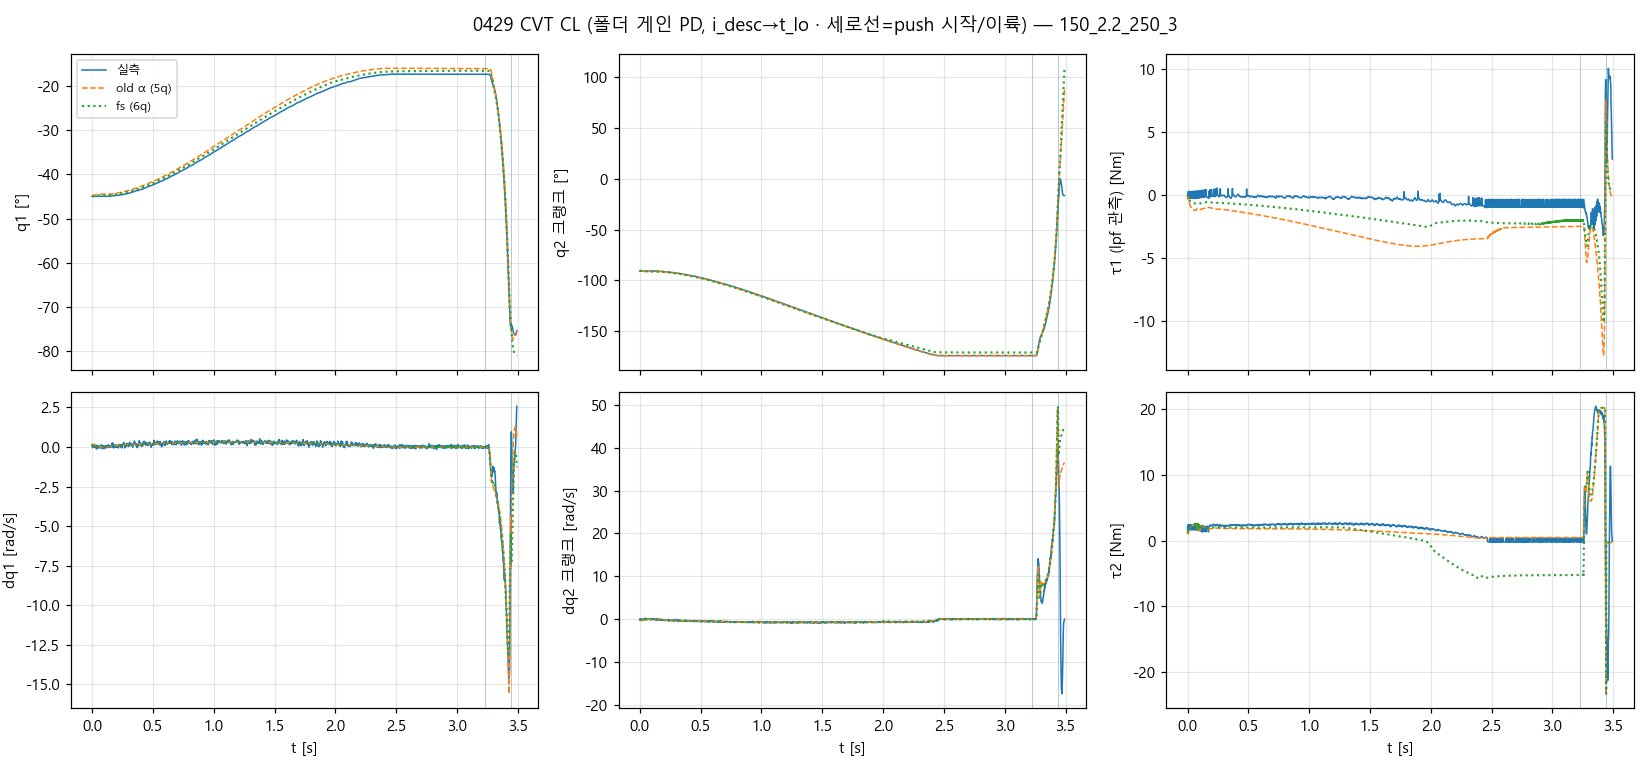
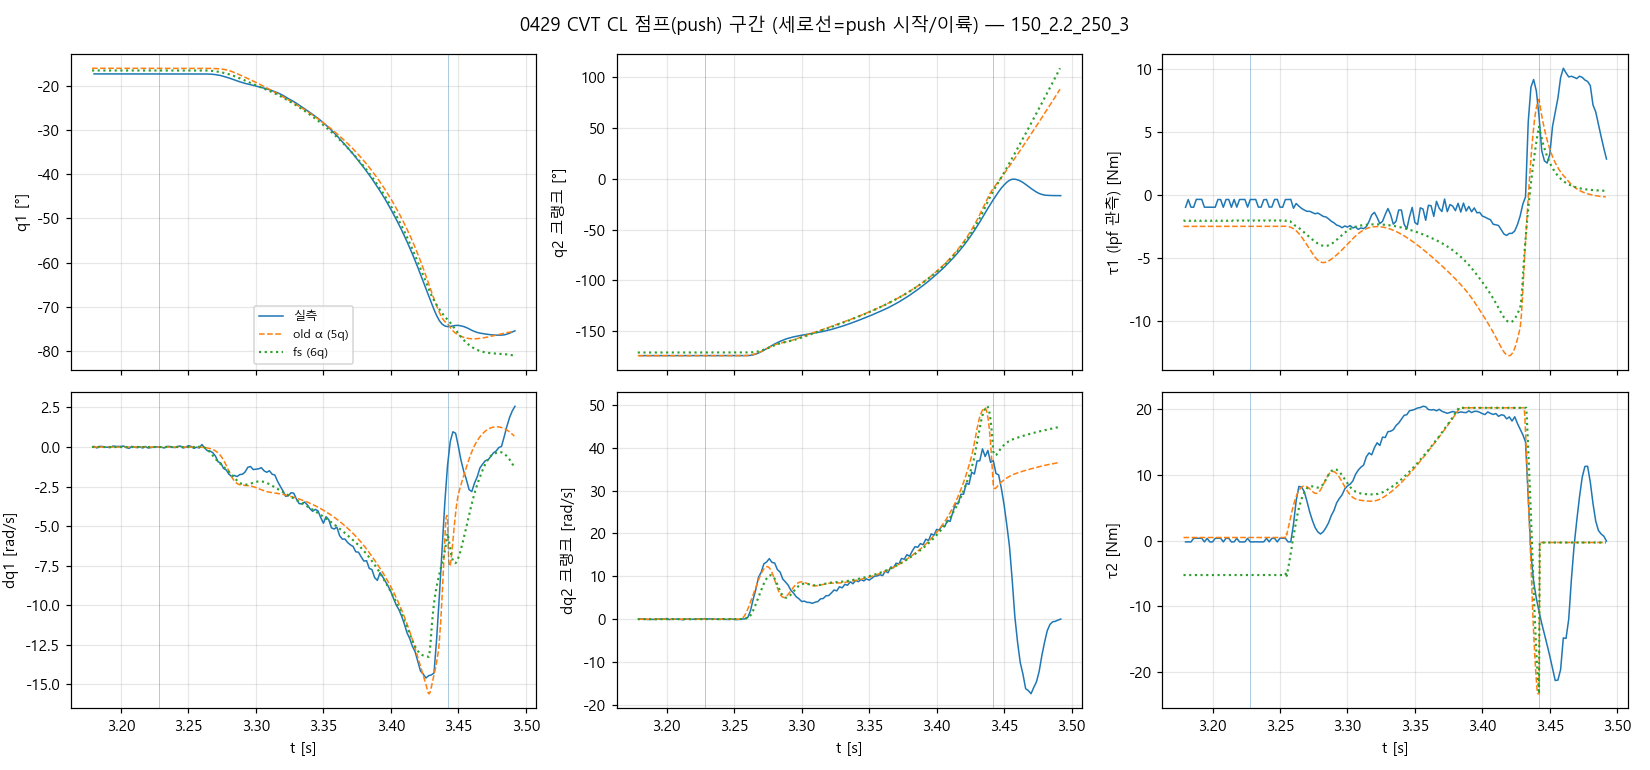
마라톤C: CL 그래프 점프(push) 구간 한정 재생성 (사용자 지시)
Claude-Session: https://claude.ai/code/session_018tXRZDWy9RG1Z1qWD21UNo

diff --git a/code/goal23_fullspan/fs_cvt_plot.py b/code/goal23_fullspan/fs_cvt_plot.py
@@ -194,26 +194,29 @@ def main():
         if Lf is None or Lo is None:
             print(f"{p.name}: CL 실패 (fs {Lf is None} old {Lo is None})", flush=True)
             continue
-        mseg = t <= t_end + 0.05
-        tm = t[mseg]
         dt5 = float(np.median(np.diff(Lo["t"])))
+        pm = seg["push"][i0:][: len(t)]
+        t_push0 = float(t[pm][0]) if pm.sum() else 0.0
+        w0, w1 = t_push0 - 0.05, t_end + 0.05          # 점프(push) 구간만
+        mseg = (t >= w0) & (t <= w1)
+        tm = t[mseg]
+        mo = (Lo["t"] >= w0) & (Lo["t"] <= w1)
+        mf = (Lf["t"] >= w0) & (Lf["t"] <= w1)
+        s1o_l = lpf(Lo["s1"], dt5)
         fig, ax = plt.subplots(2, 3, figsize=(15, 7), sharex=True)
-        tri(ax[0, 0], tm, np.degrees(d["q1"][i0:][mseg]), Lo["t"], np.degrees(Lo["q1"]), Lf["t"], np.degrees(Lf["thm1"]), "q1 [°]")
-        tri(ax[0, 1], tm, np.degrees(d["q2"][i0:][mseg]), Lo["t"], np.degrees(Lo["q2"]), Lf["t"], np.degrees(Lf["q2"]), "q2 크랭크 [°]")
-        tri(ax[1, 0], tm, d["dq1"][i0:][mseg], Lo["t"], Lo["dq1"], Lf["t"], Lf["dq1"], "dq1 [rad/s]")
-        tri(ax[1, 1], tm, d["dq2"][i0:][mseg], Lo["t"], Lo["dq2"], Lf["t"], Lf["dq2"], "dq2 크랭크 [rad/s]")
-        tri(ax[0, 2], tm, d["a1"][i0:][mseg], Lo["t"], lpf(Lo["s1"], dt5), Lf["t"], Lf["s1f"], "τ1 (lpf 관측) [Nm]")
-        tri(ax[1, 2], tm, d["a2"][i0:][mseg], Lo["t"], Lo["s2"], Lf["t"], Lf["s2"], "τ2 [Nm]")
+        tri(ax[0, 0], tm, np.degrees(d["q1"][i0:][mseg]), Lo["t"][mo], np.degrees(Lo["q1"][mo]), Lf["t"][mf], np.degrees(Lf["thm1"][mf]), "q1 [°]")
+        tri(ax[0, 1], tm, np.degrees(d["q2"][i0:][mseg]), Lo["t"][mo], np.degrees(Lo["q2"][mo]), Lf["t"][mf], np.degrees(Lf["q2"][mf]), "q2 크랭크 [°]")
+        tri(ax[1, 0], tm, d["dq1"][i0:][mseg], Lo["t"][mo], Lo["dq1"][mo], Lf["t"][mf], Lf["dq1"][mf], "dq1 [rad/s]")
+        tri(ax[1, 1], tm, d["dq2"][i0:][mseg], Lo["t"][mo], Lo["dq2"][mo], Lf["t"][mf], Lf["dq2"][mf], "dq2 크랭크 [rad/s]")
+        tri(ax[0, 2], tm, d["a1"][i0:][mseg], Lo["t"][mo], s1o_l[mo], Lf["t"][mf], Lf["s1f"][mf], "τ1 (lpf 관측) [Nm]")
+        tri(ax[1, 2], tm, d["a2"][i0:][mseg], Lo["t"][mo], Lo["s2"][mo], Lf["t"][mf], Lf["s2"][mf], "τ2 [Nm]")
         ax[0, 0].legend(fontsize=8)
         for a in ax[1]:
             a.set_xlabel("t [s]")
-        pm = seg["push"][i0:][: len(t)]
-        t_push0 = float(t[pm][0]) if pm.sum() else None
-        if t_push0 is not None:
-            for a in ax.flat:
-                a.axvline(t_push0, lw=0.6, alpha=0.4)
-                a.axvline(t_end, lw=0.6, alpha=0.4)
-        fig.suptitle(f"0429 CVT CL (폴더 게인 PD, i_desc→t_lo · 세로선=push 시작/이륙) — {p.name}")
+        for a in ax.flat:
+            a.axvline(t_push0, lw=0.6, alpha=0.4)
+            a.axvline(t_end, lw=0.6, alpha=0.4)
+        fig.suptitle(f"0429 CVT CL 점프(push) 구간 (세로선=push 시작/이륙) — {p.name}")
         fig.tight_layout()
         fp = OUT / f"cvt0429_CL_{p.name}.png"
         fig.savefig(fp, dpi=110)
